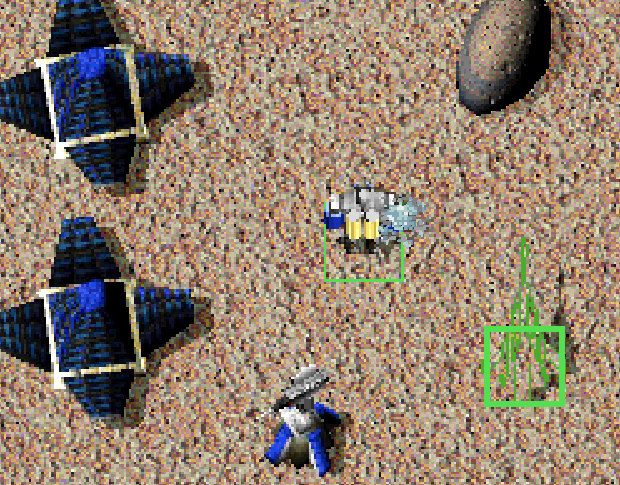
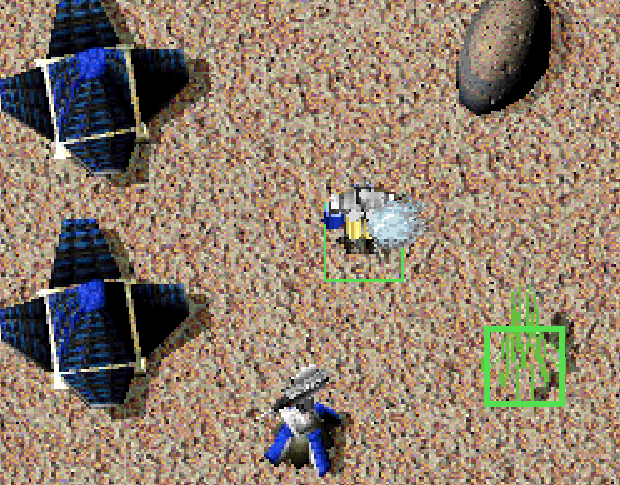
(fix) Show the building preview the right way up on the hacks page
The build preview page's picture of a Light Laser Tower being placed
still showed the tower upside down, its barrel rising above the site as
a spike, as the preview was drawn before it was turned the right way up.
The picture is now taken again from the same scene, size and framing:
the tower stands in its footprint as the finished one does, its outline
in the nano greens of its pulse. Its caption says the nanoframe pulses,
as the page's description does, where it said it shimmered.

diff --git a/docs/mods/standard-hacks/ui.build-preview.md b/docs/mods/standard-hacks/ui.build-preview.md
@@ -21,7 +21,7 @@ only the footprint and builds every building facing south.
 
 ![Placing a light laser tower near a small Arm base: the tower is drawn as green nanoframe lines inside a green footprint square on open ground.](images/ui.build-preview-nanoframe.png)
 
-*Placing a Light Laser Tower: the tower is drawn at its site as the player's shimmering nanoframe, inside its footprint outline.*
+*Placing a Light Laser Tower: the tower is drawn at its site as the player's pulsing nanoframe, inside its footprint outline.*
 
 ![Two enlarged views of a vehicle plant being placed: on the left a wide green footprint with the letter S and the hint "Press /, or Left Alt+wheel, to rotate"; on the right a tall footprint with the letter E and no hint.](images/ui.build-preview-rotated.png)
 
